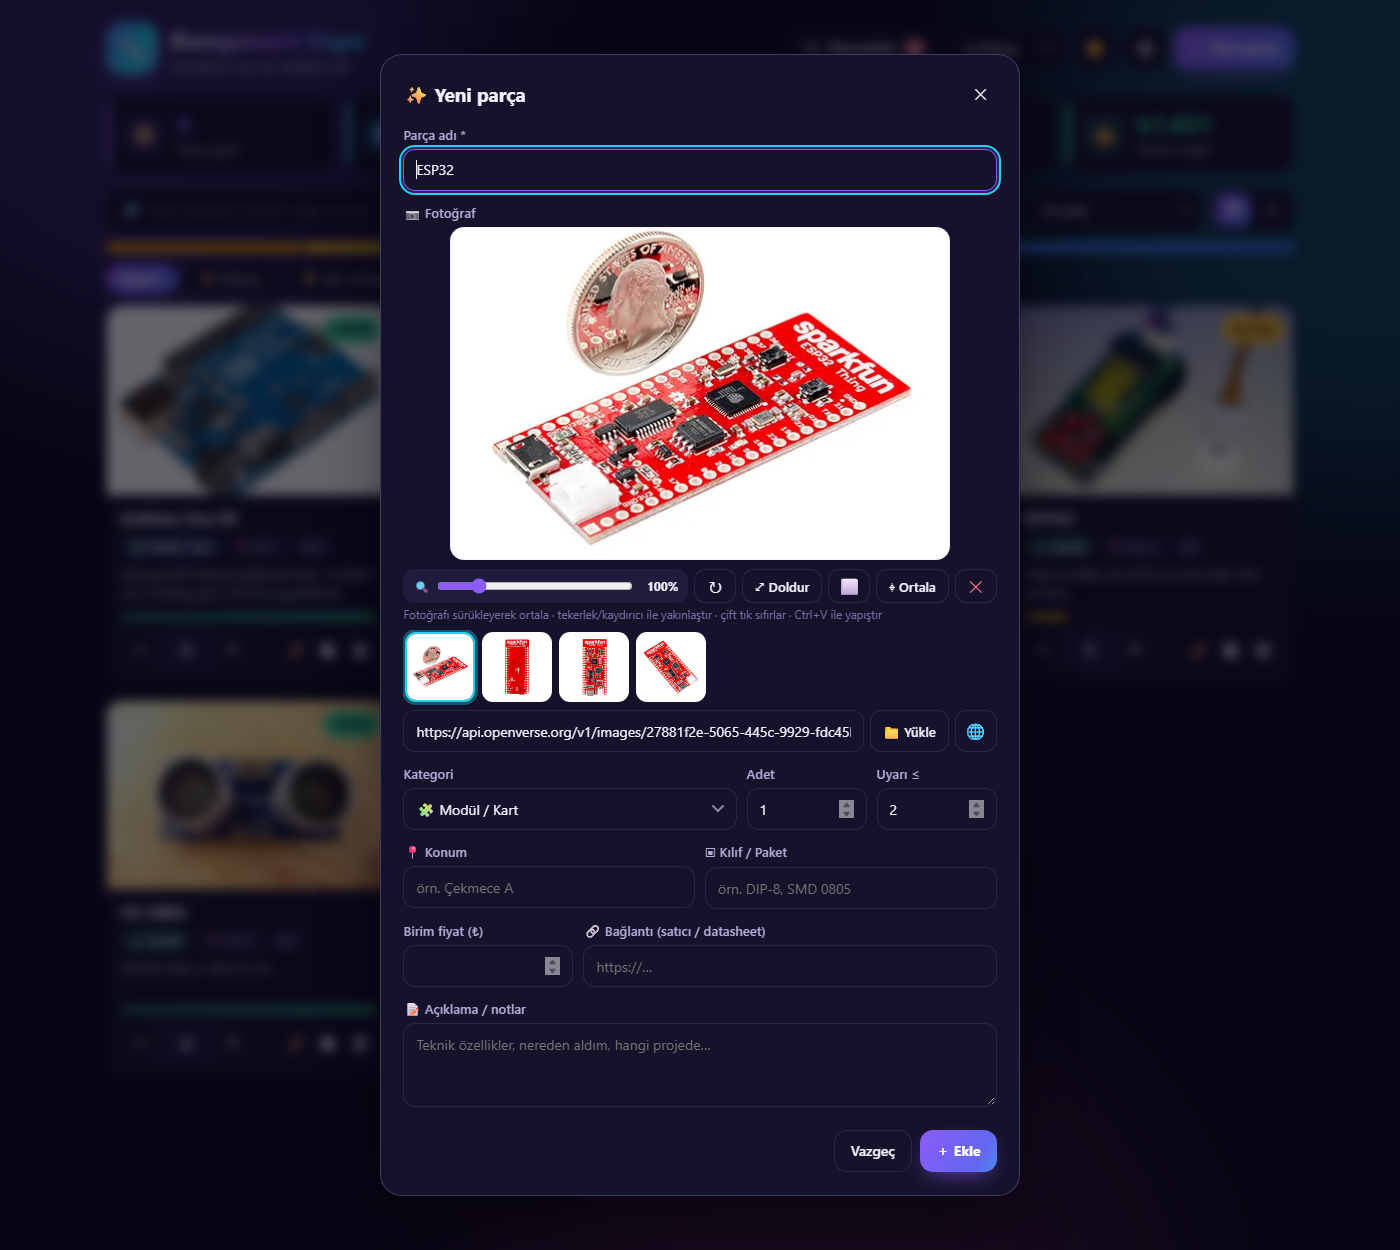
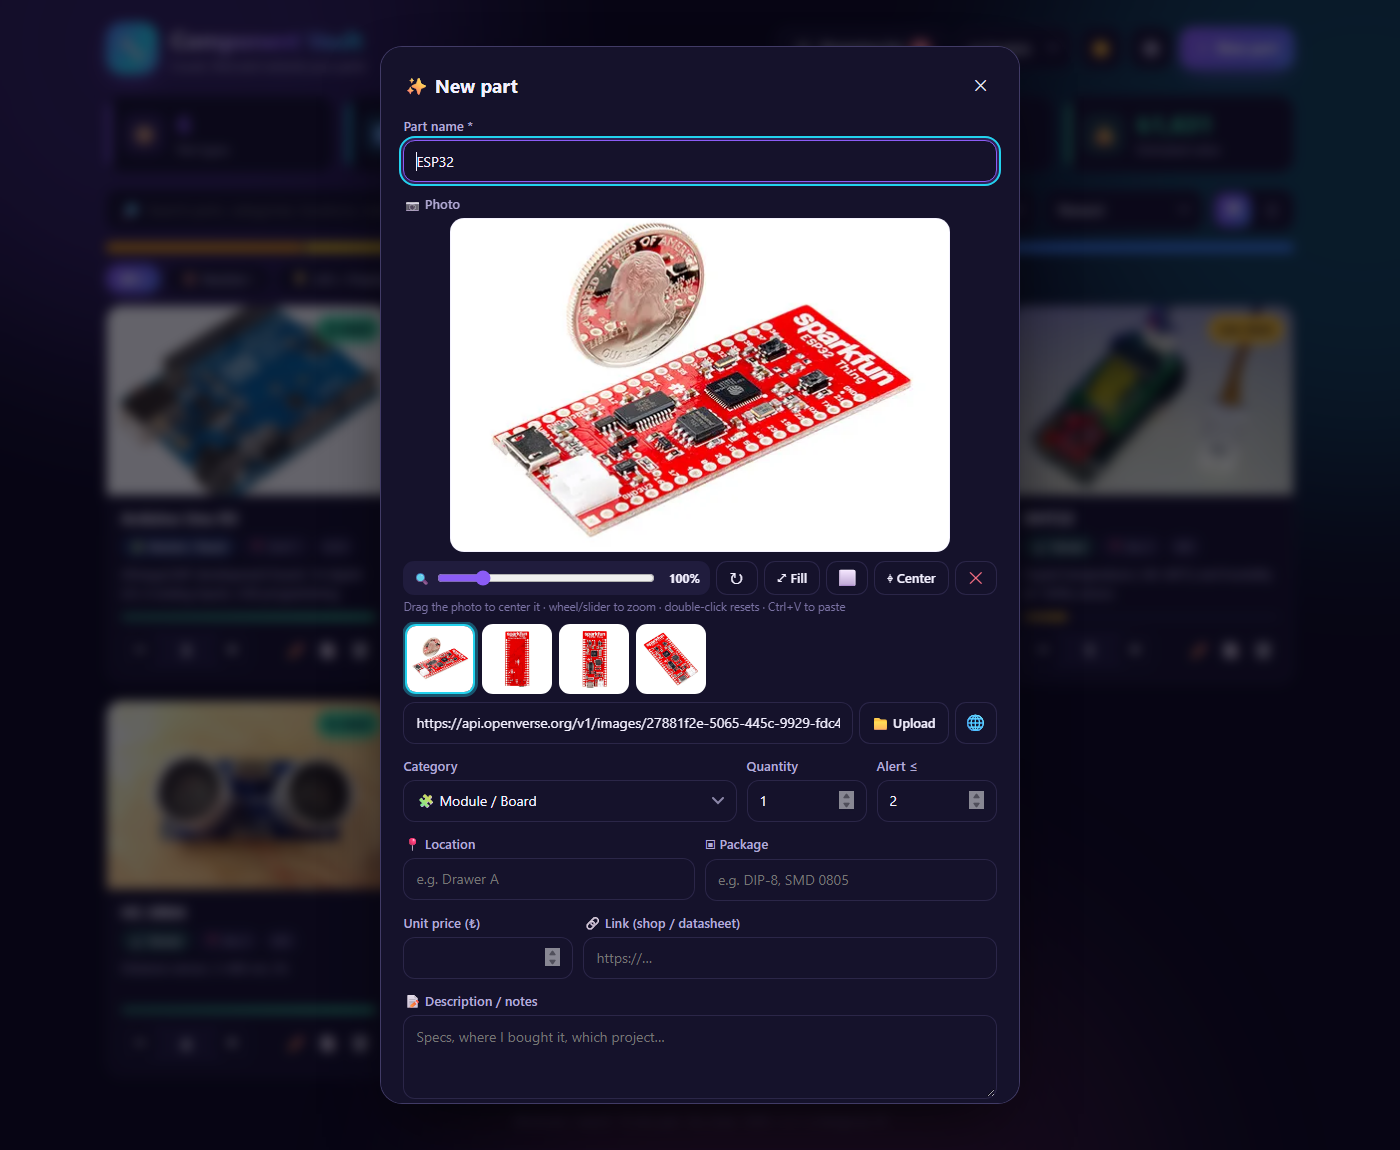
README in English, with a Turkish section below
- Main README content is now English; the full Turkish description follows
- Banner subtitle in English
- Photo editor screenshot retaken in English

diff --git a/README.md b/README.md
@@ -2,103 +2,103 @@
 
 <img src="docs/banner.svg" alt="Komponent Depo" width="100%">
 
-<h3>Elektronik parça stoğun için hızlı, renkli ve tamamen ücretsiz bir depo uygulaması</h3>
+<h3>A fast, colorful and completely free inventory app for your electronic parts</h3>
 
 <p>
-  <a href="https://Cafu1107.github.io/komponent-depo/"><img src="https://img.shields.io/badge/▶_Canlı_Demo-8b5cf6?style=for-the-badge" alt="Canlı demo"></a>
-  <a href="LICENSE"><img src="https://img.shields.io/badge/Lisans-MIT-22d3ee?style=for-the-badge" alt="MIT"></a>
-  <img src="https://img.shields.io/badge/Bağımlılık-0-34d399?style=for-the-badge" alt="Sıfır bağımlılık">
-  <img src="https://img.shields.io/badge/Tek_dosya-HTML-ff5fa2?style=for-the-badge&logo=html5&logoColor=white" alt="Tek HTML dosyası">
+  <a href="https://cafu1107.github.io/komponent-depo/"><img src="https://img.shields.io/badge/▶_Live_Demo-8b5cf6?style=for-the-badge" alt="Live demo"></a>
+  <a href="LICENSE"><img src="https://img.shields.io/badge/License-MIT-22d3ee?style=for-the-badge" alt="MIT"></a>
+  <img src="https://img.shields.io/badge/Dependencies-0-34d399?style=for-the-badge" alt="Zero dependencies">
+  <img src="https://img.shields.io/badge/Single_file-HTML-ff5fa2?style=for-the-badge&logo=html5&logoColor=white" alt="Single HTML file">
 </p>
 
 <p>
-  🇬🇧 <b>English</b> (varsayılan) &nbsp;·&nbsp; 🇹🇷 Türkçe &nbsp;·&nbsp; 🇩🇪 Deutsch
+  🇬🇧 <b>English</b> (default) &nbsp;·&nbsp; 🇹🇷 Türkçe &nbsp;·&nbsp; 🇩🇪 Deutsch
 </p>
 
-<b><a href="https://Cafu1107.github.io/komponent-depo/">Hemen dene →</a></b> &nbsp;|&nbsp; <a href="#-english">English below ↓</a>
+<b><a href="https://cafu1107.github.io/komponent-depo/">Try it now →</a></b> &nbsp;|&nbsp; <a href="#-türkçe">🇹🇷 Türkçe açıklama ↓</a>
 
 <br><br>
 
-<img src="docs/dark.png" alt="Komponent Depo — koyu tema (English)" width="92%">
+<img src="docs/dark.png" alt="Komponent Depo — dark theme" width="92%">
 
 </div>
 
 ---
 
-## ✨ Neler yapabilir?
+## ✨ What can it do?
 
 <table>
 <tr>
 <td width="50%" valign="top">
 
-### 📷 Fotoğrafı kendisi bulur
-Parçanın adını yaz (`ESP32`, `HC-SR04`, `BC547`…). Uygulama **Wikipedia**, **Wikimedia Commons** ve **Openverse**'te arar, gerçekten açılan ilk fotoğrafı seçer ve sana 12'ye kadar seçenek sunar.
+### 📷 Finds photos by itself
+Type a part name (`ESP32`, `HC-SR04`, `BC547`…). The app searches **Wikipedia**, **Wikimedia Commons** and **Openverse**, picks the first photo that actually loads, and offers up to 12 alternatives.
 
 </td>
 <td width="50%" valign="top">
 
-### 🎯 Fotoğraf düzenleyici
-Fotoğrafı **sürükleyerek ortala**, tekerlekle **yakınlaştır**, **döndür**, *Doldur / Sığdır* arasında geç, zemin rengini seç. Ne görüyorsan kartta da o çıkar.
+### 🎯 Photo editor
+**Drag to center**, scroll to **zoom**, **rotate**, switch between *Fill* and *Fit*, and choose a backdrop color. The card shows exactly what you see in the editor.
 
 </td>
 </tr>
 <tr>
 <td valign="top">
 
-### 🛒 Akıllı alışveriş listesi
-Az kalan ve tükenen parçalar otomatik listelenir, önerilen miktar ve tahmini tutar hesaplanır. **“Aldım”** deyince stoğa eklenir. Liste tek tıkla kopyalanır.
+### 🛒 Smart shopping list
+Low and out-of-stock parts are listed automatically, with a suggested amount and estimated cost. Hit **“Bought”** to add them to your stock. Copy the list in one click.
 
 </td>
 <td valign="top">
 
-### 📈 Stok geçmişi
-Her artış ve azalış zamanıyla kaydedilir. Hangi parçayı ne zaman kullandığını detay penceresinden görürsün.
+### 📈 Stock history
+Every increase and decrease is logged with a timestamp, so you can see what you used and when.
 
 </td>
 </tr>
 <tr>
 <td valign="top">
 
-### 🌐 3 dil, 4 para birimi
-Site varsayılan olarak **English** açılır. Sağ üstten **Türkçe** veya **Deutsch** seçebilirsin, seçimin hatırlanır. ₺ · $ · € · £. Kategoriler, tarihler ve sayı biçimleri seçtiğin dile uyar.
+### 🌐 3 languages, 4 currencies
+English by default. **Türkçe** and **Deutsch** are one click away in the top-right menu. ₺ · $ · € · £. Categories, dates and number formats follow the language you choose.
 
 </td>
 <td valign="top">
 
-### 🔒 Verin sende kalır
-Sunucu yok, hesap yok. Her şey tarayıcında saklanır. İstersen **JSON** olarak yedekle ya da **Excel (CSV)** olarak dışa aktar.
+### 🔒 Your data stays with you
+No server, no account. Everything is stored in your browser. Back it up as **JSON** or export it to **Excel (CSV)**.
 
 </td>
 </tr>
 </table>
 
-### …ve daha fazlası
+### …and more
 
 | | |
 |---|---|
-| ⚡ **Hızlı adet** | − / + butonunu basılı tut, hızlanarak değişir. <kbd>Shift</kbd> ile 10'ar değişir, sayıya tıklayıp doğrudan yazabilirsin |
-| 🧠 **Otomatik kategori** | `BC547` yazınca *Transistör*, `DHT22` yazınca *Sensör* seçilir |
-| 🔎 **Anlık arama** | Ad, kategori, konum, kılıf ve notlarda arar, eşleşen yeri vurgular |
-| ⭐ **Favoriler & kopyalama** | Sık kullandıklarını işaretle, benzer bir parçayı tek tıkla kopyala |
-| ↩ **Geri al** | Yanlışlıkla sildiğin parçayı geri getirebilirsin |
-| ▦ **Kart / liste görünümü** | Fotoğraflı kartlar ya da sıkışık liste |
-| 🌗 **Koyu / açık tema** | Canlı mor-camgöbeği palet, akıcı animasyonlar |
-| ⌨ **Kısayollar** | <kbd>/</kbd> ara · <kbd>N</kbd> yeni parça · <kbd>Esc</kbd> kapat |
+| ⚡ **Fast quantity** | Hold − / + and the count speeds up. <kbd>Shift</kbd> changes it by 10, or click the number and type |
+| 🧠 **Auto category** | Typing `BC547` selects *Transistor*, `DHT22` selects *Sensor* |
+| 🔎 **Instant search** | Searches name, category, location, package and notes, and highlights the matches |
+| ⭐ **Favorites & duplicate** | Star the parts you use often and clone a similar part in one click |
+| ↩ **Undo** | Bring back a part you deleted by mistake |
+| ▦ **Card / list view** | Photo cards or a compact list |
+| 🌗 **Dark / light theme** | Vivid violet-cyan palette and smooth animations |
+| ⌨ **Shortcuts** | <kbd>/</kbd> search · <kbd>N</kbd> new part · <kbd>Esc</kbd> close |
 
 <div align="center">
 <br>
-<img src="docs/editor.png" alt="Fotoğraf düzenleyici" width="46%">&nbsp;&nbsp;
-<img src="docs/light.png" alt="Açık tema, Türkçe" width="46%">
-<br><sub>Otomatik fotoğraf bulma ve düzenleyici &nbsp;·&nbsp; Açık tema (Türkçe)</sub>
+<img src="docs/editor.png" alt="Photo editor" width="46%">&nbsp;&nbsp;
+<img src="docs/light.png" alt="Light theme, Turkish" width="46%">
+<br><sub>Automatic photo search & editor &nbsp;·&nbsp; Light theme (Türkçe)</sub>
 </div>
 
 ---
 
-## 🚀 Kullanım
+## 🚀 Getting started
 
-**En kolayı:** [canlı demoyu](https://Cafu1107.github.io/komponent-depo/) aç ve kullanmaya başla.
+**Easiest:** open the [live demo](https://cafu1107.github.io/komponent-depo/) and start adding parts.
 
-**Kendi bilgisayarında:** [`index.html`](index.html) dosyasını indir ve çift tıkla. Kurulum gerekmez, internet yalnızca fotoğraf aramak için gerekir.
+**On your own computer:** download [`index.html`](index.html) and double-click it. There's nothing to install. You only need internet to search for photos.
 
 ```bash
 git clone https://github.com/Cafu1107/komponent-depo.git
@@ -106,55 +106,68 @@ cd komponent-depo
 start index.html      # macOS: open index.html · Linux: xdg-open index.html
 ```
 
-### 🔗 Adres parametreleri
+### 🔗 URL parameters
 
-| Parametre | Örnek | Ne yapar |
+| Parameter | Example | What it does |
 |---|---|---|
-| `lang` | `?lang=tr` | Dili seçer (`en` varsayılan, `tr`, `de`) |
-| `theme` | `?theme=light` | Temayı seçer (`dark`, `light`) |
-| `add` | `?add=ESP32` | “Yeni parça” formunu bu adla açar |
+| `lang` | `?lang=tr` | Sets the language (`en` default, `tr`, `de`) |
+| `theme` | `?theme=light` | Sets the theme (`dark`, `light`) |
+| `add` | `?add=ESP32` | Opens the “New part” form with this name |
 
-> 💡 Parçalarını bir QR etikete bağlamak istersen örneğin `…/komponent-depo/?add=NE555` gibi bir adres kullanabilirsin.
-
----
-
-## 🛠 Nasıl yapıldı?
-
-- **Tek dosya:** HTML + CSS + saf JavaScript. Framework yok, derleme adımı yok.
-- **Depolama:** `localStorage`. Yüklediğin fotoğraflar yer kaplamasın diye otomatik olarak 800 px WebP'ye küçültülür.
-- **Fotoğraf kaynakları:** [Wikipedia](https://www.wikipedia.org/), [Wikimedia Commons](https://commons.wikimedia.org/), [Openverse](https://openverse.org/). Hepsi açık API'dir ve anahtar gerektirmez.
-
-## 🤝 Katkı
-
-Hata bildirimi, öneri ve pull request'lere açığım. Yeni bir dil eklemek için `I18N` nesnesine bir blok eklemen yeterli.
-
-## 📄 Lisans
-
-[MIT](LICENSE). Özgürce kullan, değiştir ve paylaş.
+> 💡 Want to link parts to QR labels? Use a URL like `…/komponent-depo/?add=NE555`.
 
 ---
 
-<a id="-english"></a>
-<details>
-<summary><b>🇬🇧 English</b></summary>
+## 🛠 How it's built
 
-<br>
+- **Single file:** HTML + CSS + vanilla JavaScript. No framework, no build step.
+- **Storage:** `localStorage`. Uploaded photos are automatically shrunk to 800 px WebP to save space.
+- **Photo sources:** [Wikipedia](https://www.wikipedia.org/), [Wikimedia Commons](https://commons.wikimedia.org/) and [Openverse](https://openverse.org/). All are open APIs and need no key.
 
-**Komponent Depo** (*Component Vault*) is a colorful, zero-dependency inventory app for electronic parts that runs in a single HTML file.
+## 🤝 Contributing
 
-- 📷 **Automatic photos**: type a part name and it searches Wikipedia, Wikimedia Commons and Openverse
-- 🎯 **Photo editor**: drag to center, zoom, rotate, fill/fit, backdrop color
-- 🛒 **Smart shopping list** with suggested amounts, estimated cost and a “Bought” button
-- 📈 **Stock history**, ⭐ favorites, duplicate, ↩ undo delete
-- 🌐 **English (default) / Turkish / German**, ₺ $ € £, dark & light themes
-- 🔒 **Local-first**: data stays in your browser. JSON backup and CSV export for Excel
+Bug reports, ideas and pull requests are welcome. To add a new language, add one block to the `I18N` object.
 
-**Try it:** https://Cafu1107.github.io/komponent-depo/ (English by default; Turkish & German in the top-right menu), or download `index.html` and open it.
+## 📄 License
 
-Licensed under **MIT**.
-</details>
+[MIT](LICENSE). Free to use, modify and share.
+
+---
+
+<a id="-türkçe"></a>
+
+## 🇹🇷 Türkçe
+
+**Komponent Depo**, elektronik parçaların için hızlı, renkli ve tamamen ücretsiz bir depo uygulaması. Tek bir HTML dosyasından oluşur ve hiçbir kurulum gerektirmez.
+
+**[Canlı demoyu Türkçe aç →](https://cafu1107.github.io/komponent-depo/?lang=tr)**
+
+### ✨ Özellikler
+
+- 📷 **Fotoğrafı kendisi bulur.** Parçanın adını yazarsın (`ESP32`, `HC-SR04`, `BC547`…). Uygulama Wikipedia, Wikimedia Commons ve Openverse'te arar, gerçekten açılan ilk fotoğrafı seçer ve 12'ye kadar seçenek sunar.
+- 🎯 **Fotoğraf düzenleyici.** Fotoğrafı sürükleyerek ortalarsın. Yakınlaştırabilir, döndürebilir, *Doldur / Sığdır* arasında geçebilir, zemin rengini seçebilirsin.
+- 🛒 **Akıllı alışveriş listesi.** Az kalan ve tükenen parçalar önerilen miktar ve tahmini tutarla listelenir. **“Aldım”** deyince stoğa eklenir.
+- 📈 **Stok geçmişi.** Her artış ve azalış zamanıyla kaydedilir.
+- ⚡ **Hızlı adet.** Butonu basılı tutunca adet hızlanarak değişir, <kbd>Shift</kbd> ile 10'ar değişir.
+- 🧠 **Otomatik kategori.** `BC547` yazınca *Transistör* seçilir.
+- 🔎 **Anlık arama.** Eşleşen yerleri vurgular.
+- ⭐ **Favoriler, kopyalama ve ↩ geri alma.**
+- 🌐 **3 dil ve 4 para birimi.** Site varsayılan olarak English açılır. Sağ üstten **Türkçe** veya **Deutsch** seçilebilir, seçimin hatırlanır. Para birimi ₺ · $ · € · £ olabilir.
+- 🌗 **Koyu ve açık tema.**
+- 🔒 **Verin sende kalır.** Sunucu ve hesap yok, her şey tarayıcında saklanır. JSON olarak yedekleyebilir, Excel (CSV) olarak dışa aktarabilirsin.
+- ⌨ **Kısayollar:** <kbd>/</kbd> ara · <kbd>N</kbd> yeni parça · <kbd>Esc</kbd> kapat.
+
+### 🚀 Kullanım
+
+[Canlı demoyu](https://cafu1107.github.io/komponent-depo/?lang=tr) açıp hemen kullanmaya başlayabilirsin. Ya da [`index.html`](index.html) dosyasını indirip çift tıklayarak kendi bilgisayarında açabilirsin. Kurulum gerekmez, internet yalnızca fotoğraf aramak için gerekir.
+
+Adres parametreleri: `?lang=tr` dili seçer, `?theme=light` açık temayı açar, `?add=ESP32` “Yeni parça” formunu bu adla açar.
+
+### 🤝 Katkı ve lisans
+
+Hata bildirimi, öneri ve pull request'lere açığım. Proje **MIT** lisanslıdır; özgürce kullanabilir, değiştirebilir ve paylaşabilirsin.
 
 <div align="center">
 <br>
-<sub>🔧 Kolay gelsin, iyi lehimler!</sub>
+<sub>🔧 Happy soldering! · Kolay gelsin, iyi lehimler!</sub>
 </div>
